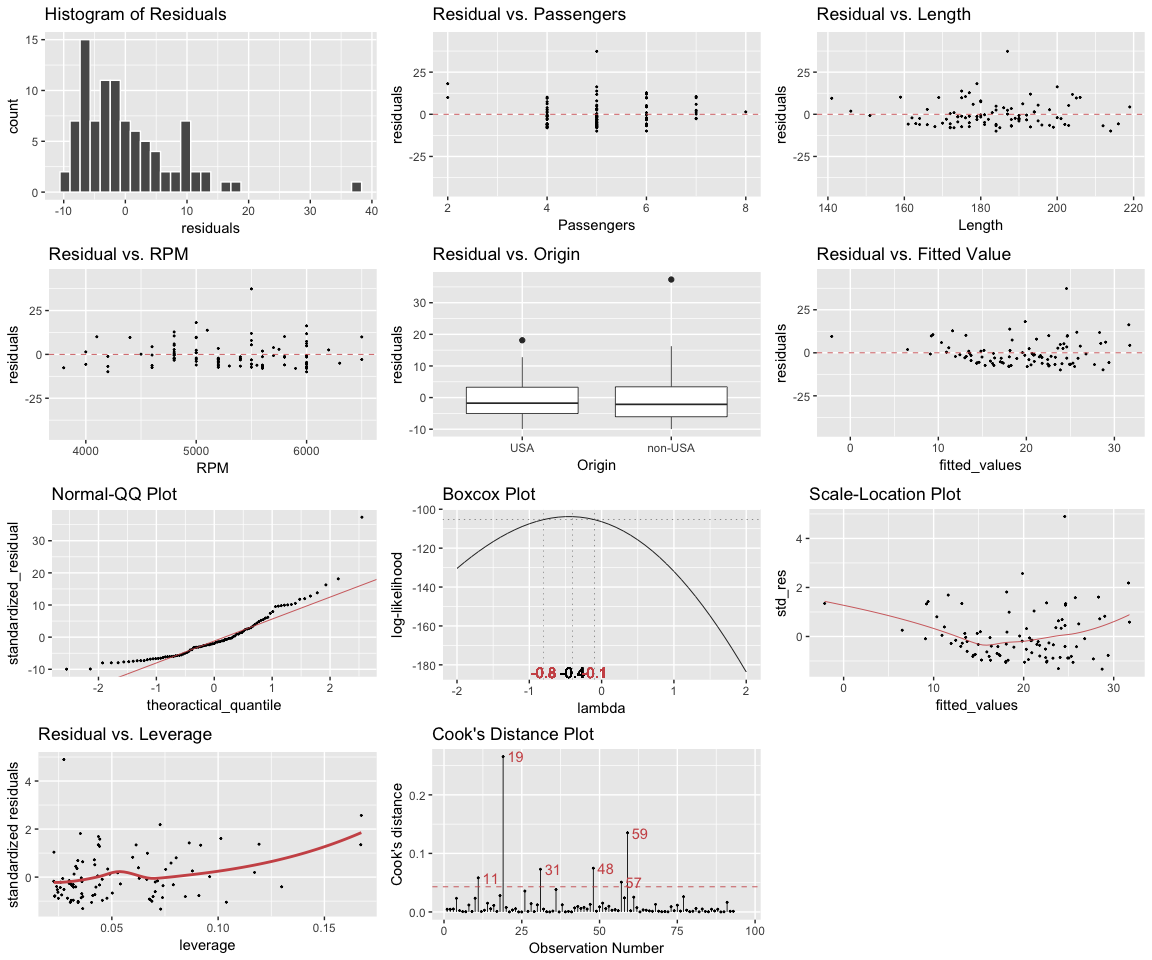
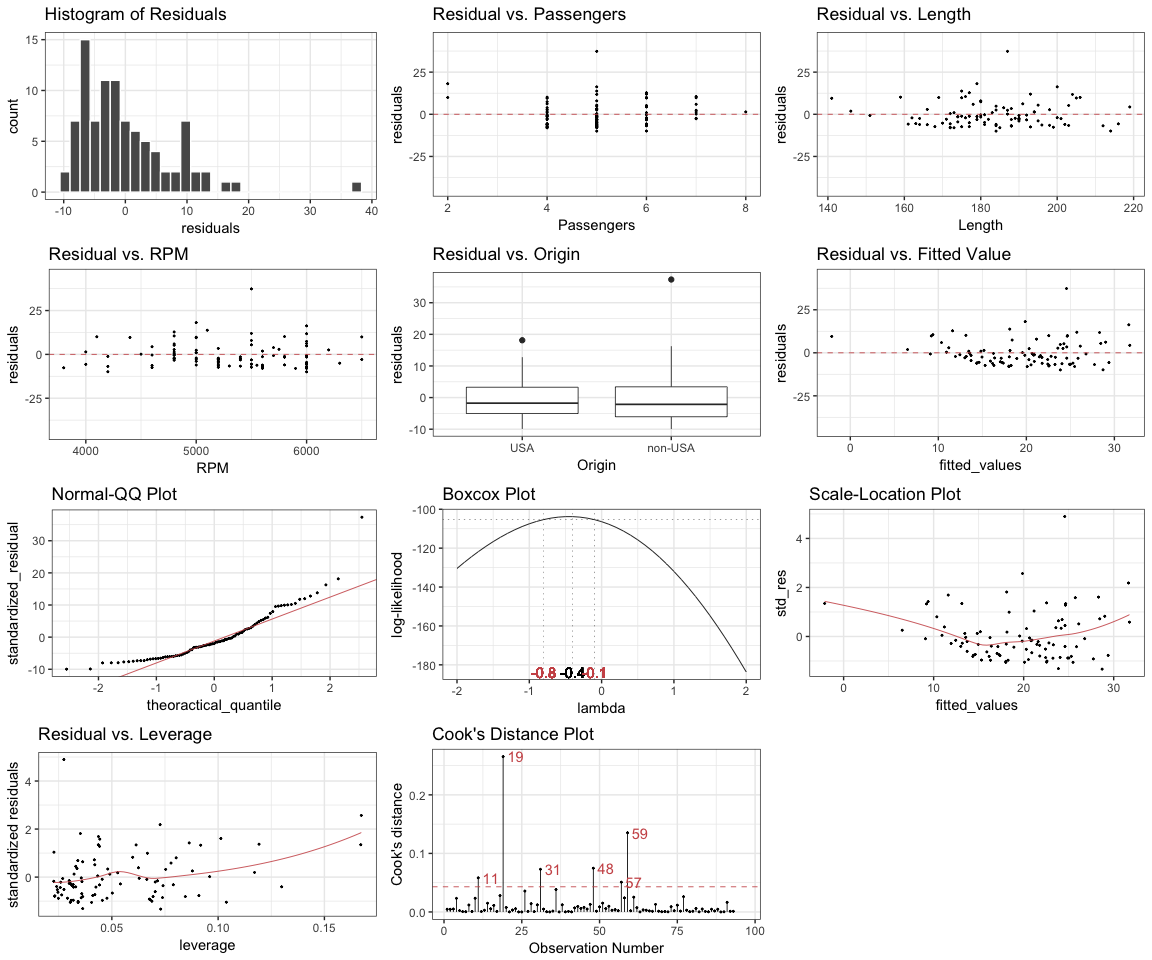
fixed typo in README

diff --git a/README.md b/README.md
@@ -166,7 +166,7 @@ gg_resleverage(cars_lm)
 gg\_cooksd
 ==========
 
-Plots residual vs. leverage of data points to detect outliers using cook's distance.
+Plots cook's distance plot that helps identify outliers. Observation numbers are plotted next to data points that are considered anamolies.
 
 ``` r
 gg_cooksd(cars_lm)
@@ -177,7 +177,7 @@ gg_cooksd(cars_lm)
 gg\_diagnose
 ============
 
-An aggregate plot of all diagnostics plots, layed out on one panel as demonstrated in the beginning of this read me document. User can set `theme` parameter to a specific theme type in order to apply to all plots in the panel.
+An aggregate plot of all diagnostics plots, layed out on one panel as demonstrated in the beginning of this README document. User can set `theme` parameter to a specific theme type in order to apply to all plots in the panel.
 
 ``` r
 gg_diagnose(cars_lm_2, theme = theme_bw())
@@ -188,7 +188,7 @@ gg_diagnose(cars_lm_2, theme = theme_bw())
 If user set `plotAll` parameter to false, `gg_diagnose` would return a list of ggplot objects which user can manipulate. `lindia` also provides a handy trick that allows user to scale all point sizes and linewidth at once, using the parameter `scale.factor`. Followed is an extreme example by setting `scale.factor` to 0.3.
 
 ``` r
-gg_diagnose(cars_lm_2, scale.factor = 0.3)
+gg_diagnose(cars_lm_2, theme = theme_bw(), scale.factor = 0.3)
 ```
 
 ![](figures/README-unnamed-chunk-17-1.png)
